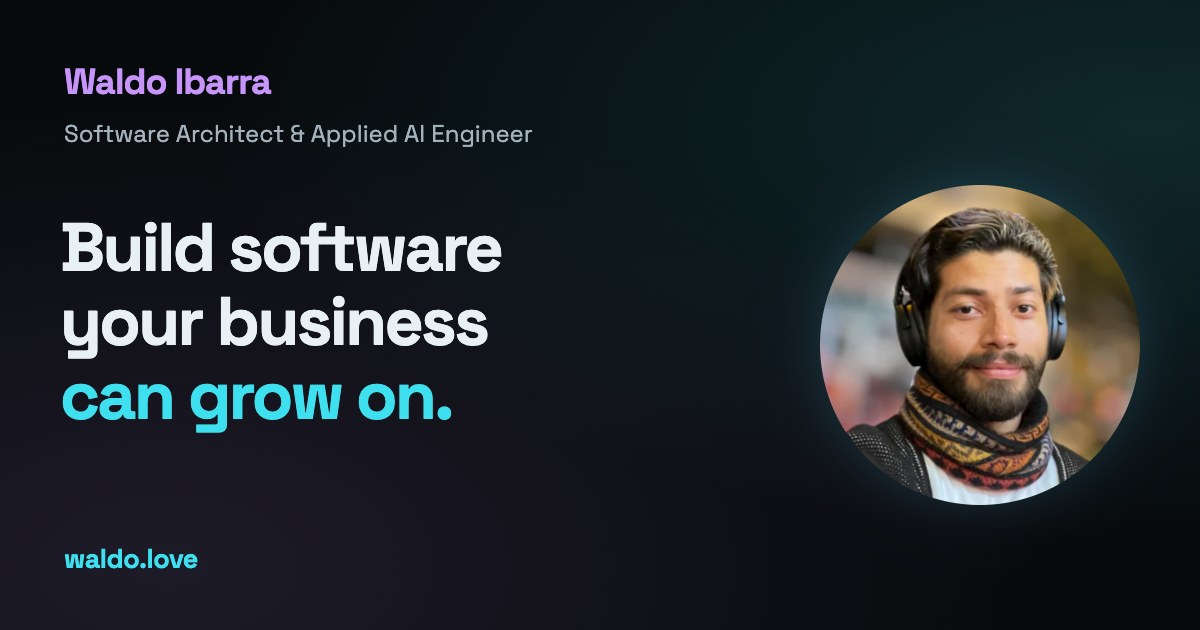
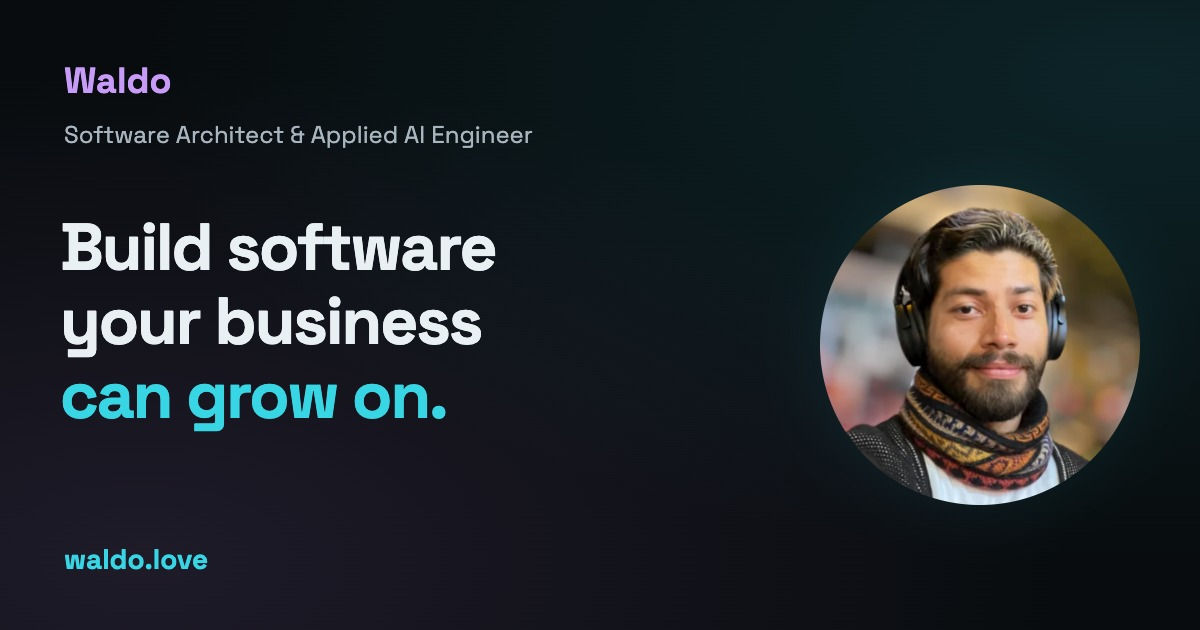
feat: Refresh portfolio branding and share image

diff --git a/src/home/sections/hero/hero.html b/src/home/sections/hero/hero.html
@@ -2,14 +2,14 @@
   <div class="hero-layout layout-container">
     <img
       class="hero-portrait"
-      src="/images/waldo-ibarra.webp"
+      src="/images/portrait.webp"
       width="512"
       height="512"
       loading="eager"
       fetchpriority="high"
-      alt="Portrait of Waldo Ibarra"
+      alt="Portrait of Waldo"
     />
-    <p class="hero-greeting">Hi, I’m <strong class="hero-name">Waldo Ibarra</strong></p>
+    <p class="hero-greeting">Hi, I’m <strong class="hero-name">Waldo</strong></p>
     <p class="hero-role">Hands-On Software Architect &amp; Applied AI Engineer</p>
     <h1 class="hero-title" id="hero-title">Build software your business can grow on.</h1>
     <p class="hero-description">

diff --git a/docs/how-to/run-locally.md b/docs/how-to/run-locally.md
@@ -67,8 +67,14 @@ You need Git and [Mise](https://mise.jdx.dev/getting-started.html), with
 Keep charset, viewport, stylesheet, and favicon declarations in
 [`src/home/index.html`](/src/home/index.html). Read the
 [homepage metadata reference](/docs/reference/homepage-metadata.md) before changing field names
-or the sharing image; JSON edits do not regenerate the image.
+or the sharing image.
 For live sharing checks, see [Verify a deployment](/docs/how-to/verify-deployment.md#check-sharing-previews).
+
+Before releasing text or photo changes, review
+[`public/images/social-preview.jpg`](/public/images/social-preview.jpg) and regenerate it manually
+if needed. Metadata, hero copy, and portrait edits do not redraw this static image. Keep it a
+1200 × 630 JPEG and keep the sharing metadata aligned with the asset. There is no automated
+`just social-preview` recipe.
 
 ## Choose the next task
 

diff --git a/docs/reference/homepage-metadata.md b/docs/reference/homepage-metadata.md
@@ -24,8 +24,9 @@ There are no configured fallback values.
 
 The canonical and image URLs are absolute HTTPS URLs. Image metadata describes the static
 1200 × 630 JPEG at [`public/images/social-preview.jpg`](/public/images/social-preview.jpg).
-Changing the JSON does not redraw that image. Text or dimensions baked into the image need a
-separate asset edit.
+Metadata, hero copy, and portrait edits do not redraw that image. Changes to its text or photo
+require manual review and regeneration before release. The replacement remains a 1200 × 630
+JPEG, with metadata matching the asset. There is no automated `just social-preview` recipe.
 
 ## Generation and reload behavior
 

diff --git a/README.md b/README.md
@@ -1,4 +1,4 @@
-# Waldo Ibarra · Portfolio
+# Waldo's Portfolio
 
 A live software-architecture portfolio backed by the frontend, AWS infrastructure, delivery
 automation, and engineering decisions that run it.
